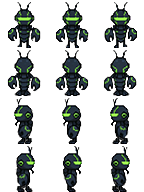
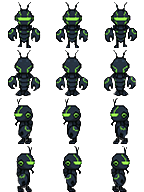
fix: streamline game entry and isolate game controls
Hide wallet selection from the game launcher once the site wallet is already connected, refresh the player sprite export from the latest character art, and stop the terminal-wide arrow-key navigation from leaking into gameplay. The /game route now treats directional keys as game-only input so movement no longer conflicts with top-level tab switching.

diff --git a/frontend/src/app/game/page.tsx b/frontend/src/app/game/page.tsx
@@ -127,6 +127,24 @@ export default function GamePage() {
   useEffect(() => setMounted(true), []);
 
   useEffect(() => {
+    const stopGlobalNav = (e: KeyboardEvent) => {
+      if (!['ArrowUp', 'ArrowDown', 'ArrowLeft', 'ArrowRight'].includes(e.key)) {
+        return;
+      }
+
+      const target = e.target as HTMLElement | null;
+      const tag = target?.tagName?.toLowerCase();
+      const isTyping = tag === 'input' || tag === 'textarea' || tag === 'select' || Boolean(target?.isContentEditable);
+      if (isTyping) return;
+
+      e.stopPropagation();
+    };
+
+    window.addEventListener('keydown', stopGlobalNav, true);
+    return () => window.removeEventListener('keydown', stopGlobalNav, true);
+  }, []);
+
+  useEffect(() => {
     if (!isConnected) return;
     const handleKeyDown = (e: KeyboardEvent) => {
       if (e.key === 'Tab') { e.preventDefault(); setShowSidePanel(p => !p); }
@@ -956,20 +974,22 @@ export default function GamePage() {
                     : (lang === 'zh' ? '请选择并连接钱包' : 'Select and connect a wallet')}
                 </div>
 
-                <div className="grid gap-3 sm:grid-cols-2 mb-5">
-                  {walletOptions.map((connector) => (
-                    <button
-                      key={connector.id}
-                      onClick={() => {
-                        setSelectedConnectorId(connector.id);
-                        connect({ connector });
-                      }}
-                      className={`soft-key py-3 text-xs sm:text-sm ${selectedConnectorId === connector.id ? 'text-white' : ''}`}
-                    >
-                      {connector.name === 'Injected' ? '浏览器钱包 (MetaMask 等)' : connector.name}
-                    </button>
-                  ))}
-                </div>
+                {!isConnected && (
+                  <div className="grid gap-3 sm:grid-cols-2 mb-5">
+                    {walletOptions.map((connector) => (
+                      <button
+                        key={connector.id}
+                        onClick={() => {
+                          setSelectedConnectorId(connector.id);
+                          connect({ connector });
+                        }}
+                        className={`soft-key py-3 text-xs sm:text-sm ${selectedConnectorId === connector.id ? 'text-white' : ''}`}
+                      >
+                        {connector.name === 'Injected' ? '浏览器钱包 (MetaMask 等)' : connector.name}
+                      </button>
+                    ))}
+                  </div>
+                )}
 
                 <button
                   onClick={() => void startGameBoot()}

diff --git a/frontend/src/components/layout/KeyboardNav.tsx b/frontend/src/components/layout/KeyboardNav.tsx
@@ -51,6 +51,8 @@ export function KeyboardNav() {
     }
 
     function handleKeyDown(e: KeyboardEvent) {
+      if (pathname.startsWith('/game')) return;
+
       // Don't hijack when user is typing in an input
       if (isInputFocused()) return;
 
